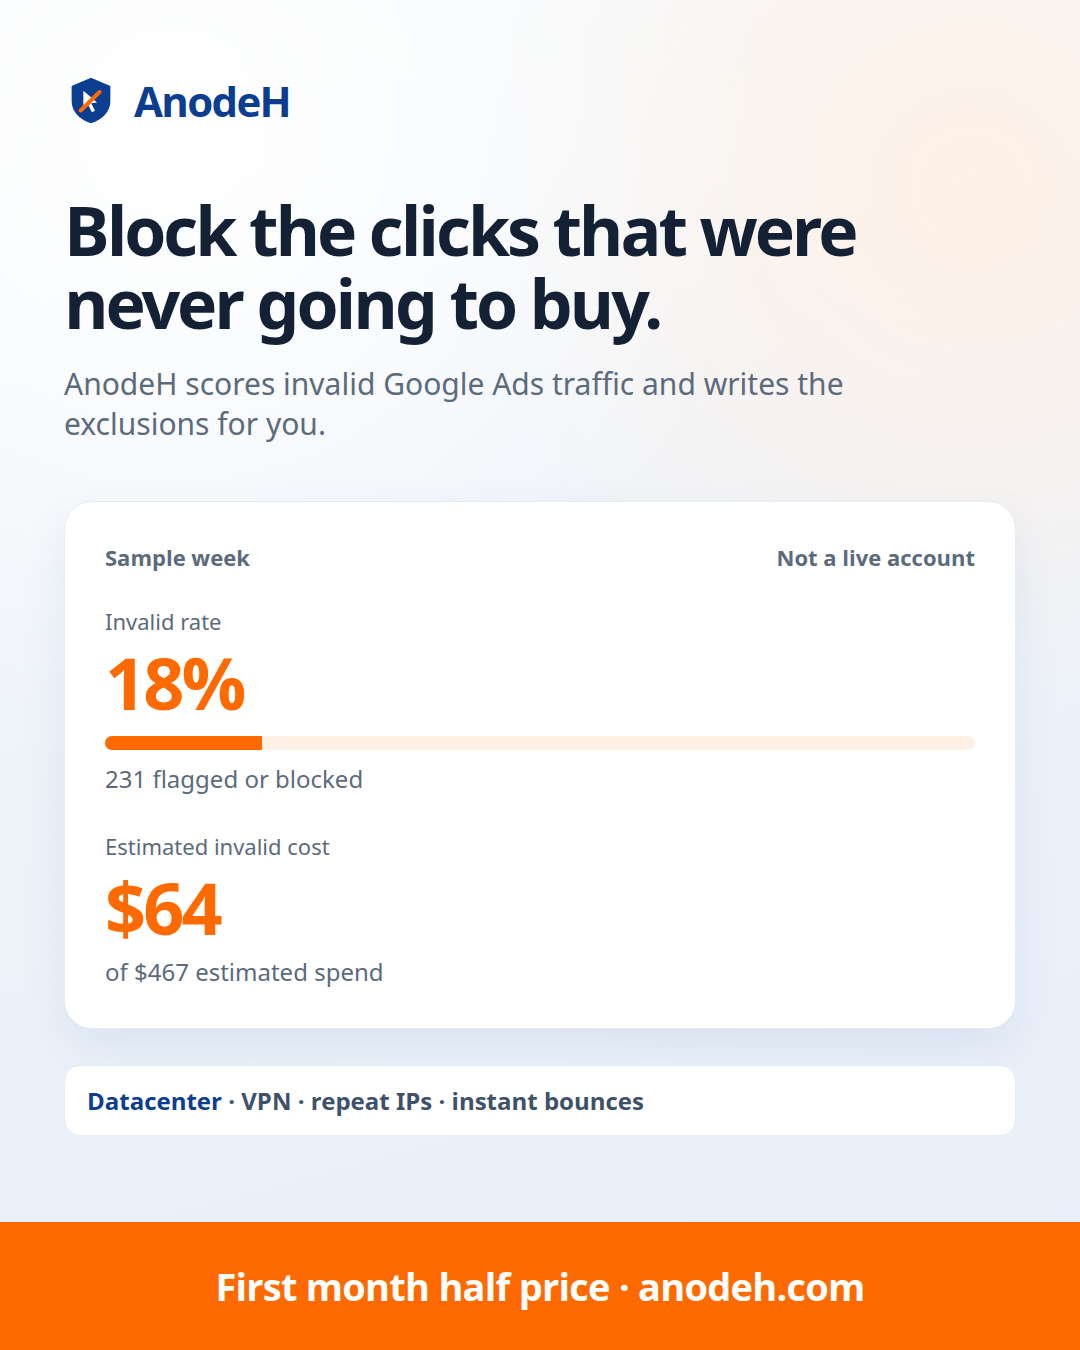
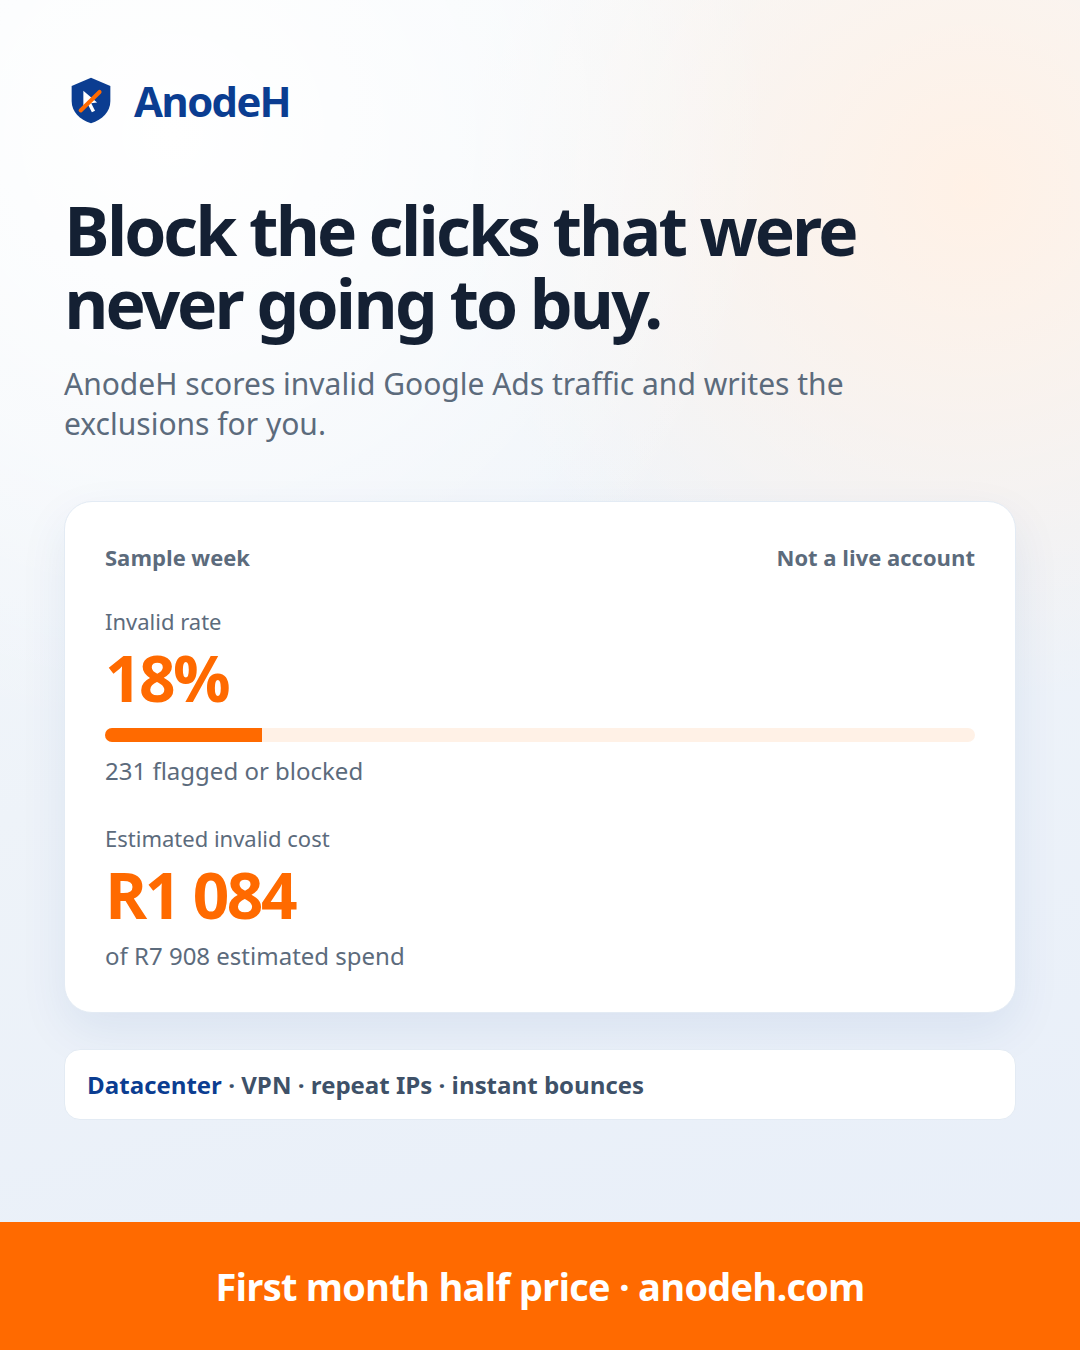
Show Meta ad sample costs in South African rand.
Convert the invalid-cost figures on the feed PNGs to ZAR using the same sample math as the landing page.

Changed region(s): [[0.0611, 0.6222, 0.9472, 0.84], [0.0917, 0.4667, 0.9167, 0.5911]]

diff --git a/marketing/meta/ad-portrait.html b/marketing/meta/ad-portrait.html
@@ -76,7 +76,7 @@
     }
     .metric strong {
       display: block;
-      font-size: 72px;
+      font-size: 64px;
       letter-spacing: -0.04em;
       color: #ff6a00;
       line-height: 1;
@@ -153,9 +153,9 @@
         <em>231 flagged or blocked</em>
       </div>
       <div class="metric">
-        <label>Estimated invalid cost</label>
-        <strong>$64</strong>
-        <em>of $467 estimated spend</em>
+          <label>Estimated invalid cost</label>
+          <strong>R1 084</strong>
+          <em>of R7 908 estimated spend</em>
       </div>
     </div>
     <div class="threats">

diff --git a/marketing/meta/ad-square.html b/marketing/meta/ad-square.html
@@ -84,7 +84,7 @@
     }
     .metric strong {
       display: block;
-      font-size: 64px;
+      font-size: 56px;
       letter-spacing: -0.04em;
       color: #ff6a00;
       line-height: 1;
@@ -147,8 +147,8 @@
         </div>
         <div class="metric">
           <label>Estimated invalid cost</label>
-          <strong>$64</strong>
-          <em>of $467 estimated spend</em>
+          <strong>R1 084</strong>
+          <em>of R7 908 estimated spend</em>
         </div>
       </div>
     </div>

diff --git a/marketing/meta/COPY.md b/marketing/meta/COPY.md
@@ -6,8 +6,8 @@ Upload either image under **Single image or video**, then paste the fields below
 
 | File | Size | Best for |
 |---|---|---|
-| `anodeh-meta-feed-square.png` | 1080×1080 | Feed (default) |
-| `anodeh-meta-feed-portrait.png` | 1080×1350 | Feed / Explore (more screen) |
+| `anodeh-meta-feed-square.png` | 1080×1080 | Feed (default) — sample costs in ZAR |
+| `anodeh-meta-feed-portrait.png` | 1080×1350 | Feed / Explore (more screen) — sample costs in ZAR |
 | `anodeh-meta-alt-square.jpg` | alt creative | A/B test |
 | `anodeh-meta-alt-portrait.jpg` | alt creative | A/B test |
 
